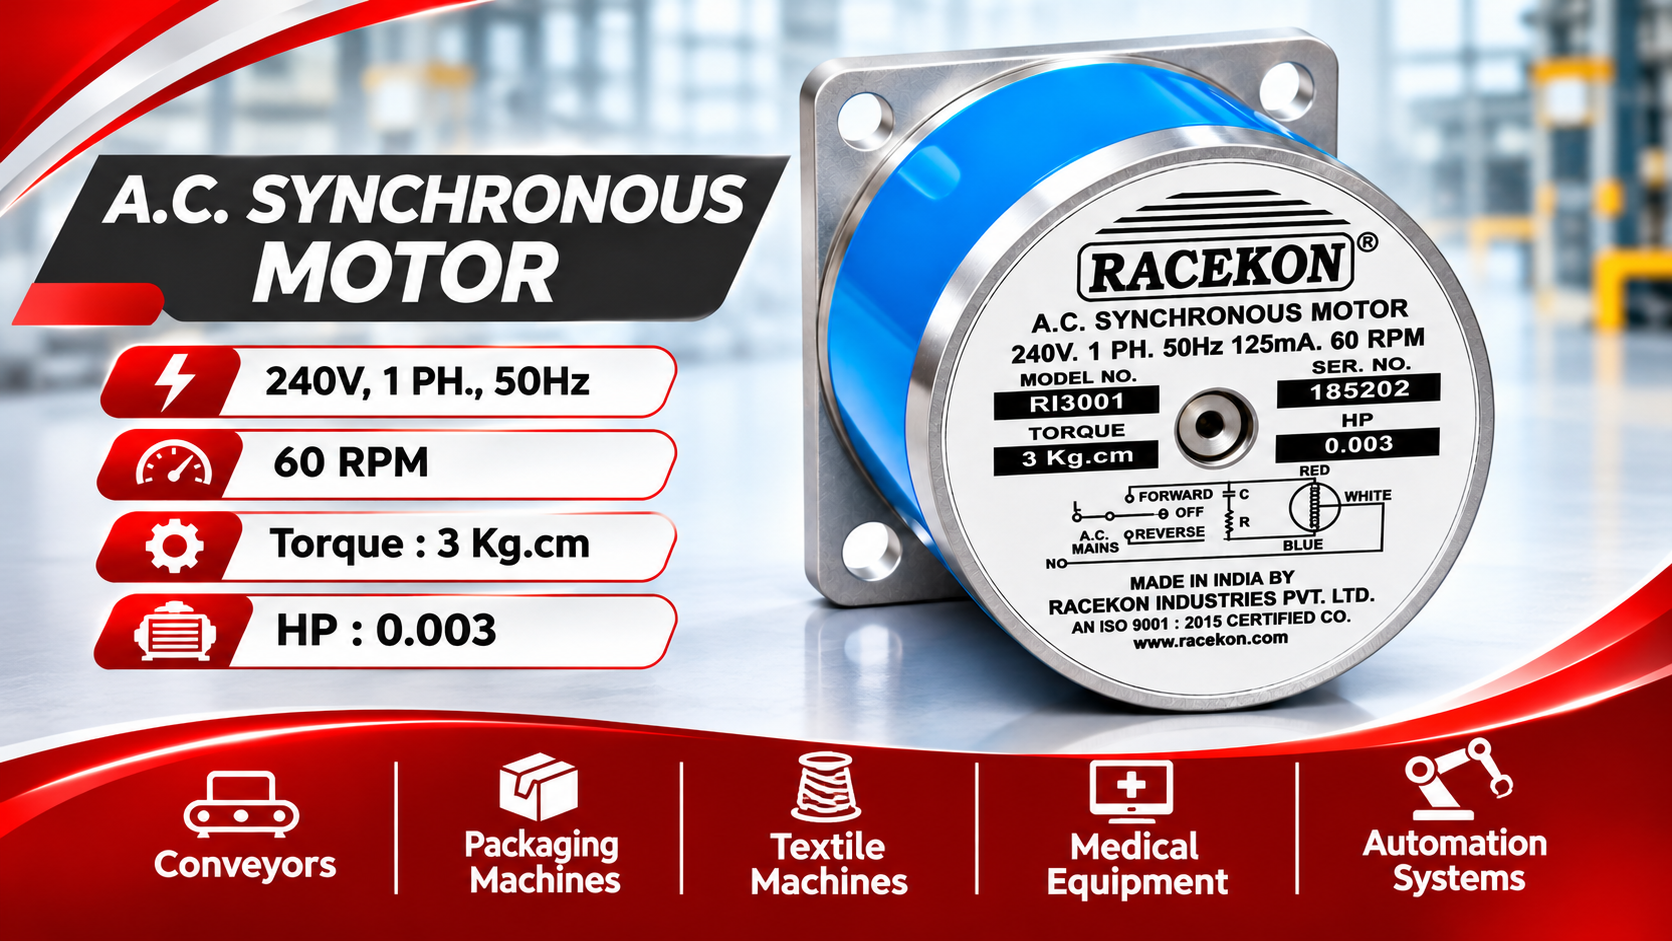
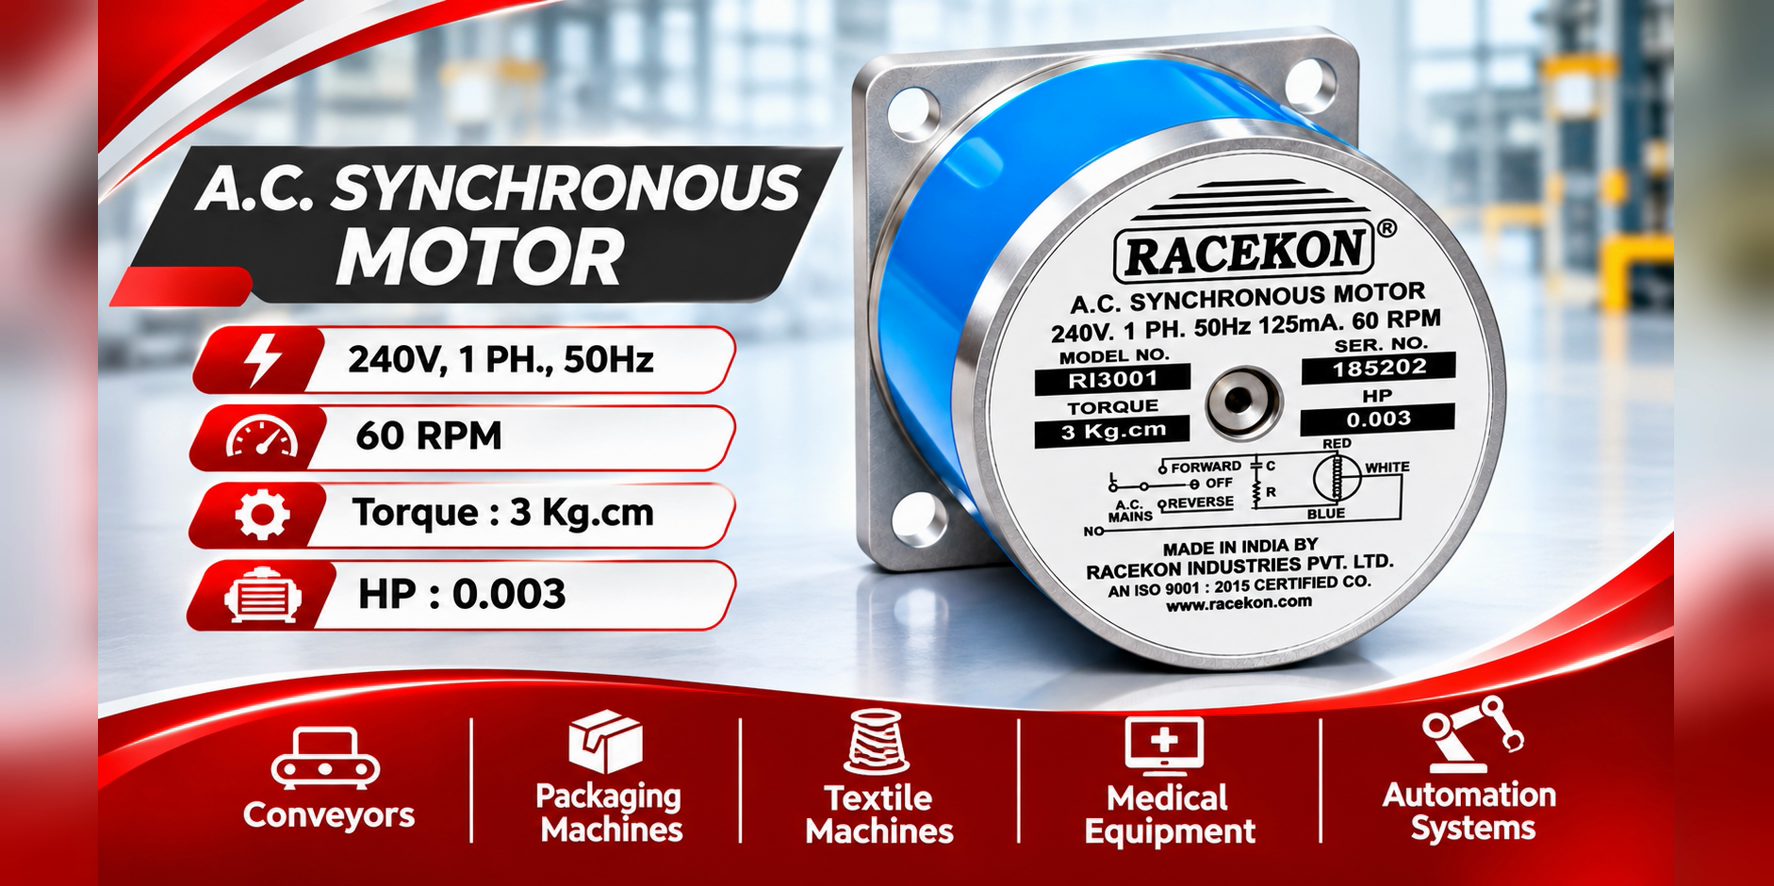
resize images

diff --git a/index.htm b/index.htm
@@ -50,6 +50,12 @@
     content="https://www.racekon.com/wp-content/uploads/2018/07/cropped-IMG_20180725_125405-2-270x270.jpg">
   <script>(function () { this._N2 = this._N2 || { _r: [], _d: [], r: function () { this._r.push(arguments) }, d: function () { this._d.push(arguments) } } }).call(window); !function (a) { a.indexOf("Safari") > 0 && -1 === a.indexOf("Chrome") && document.documentElement.style.setProperty("--ss-safari-fix-225962", "1px") }(navigator.userAgent);</script>
   <script>_N2.r('documentReady', function () { _N2.r(["documentReady", "smartslider-frontend", "SmartSliderWidgetArrowImage", "SmartSliderWidgetBulletTransition", "ss-simple"], function () { new _N2.SmartSliderSimple('n2-ss-2', { "admin": false, "callbacks": "", "background.video.mobile": 1, "loadingTime": 2000, "alias": { "id": 0, "smoothScroll": 0, "slideSwitch": 0, "scroll": 1 }, "align": "normal", "isDelayed": 0, "responsive": { "mediaQueries": { "all": false, "desktopportrait": ["(min-width: 1200px)"], "tabletportrait": ["(orientation: landscape) and (max-width: 1199px) and (min-width: 901px)", "(orientation: portrait) and (max-width: 1199px) and (min-width: 701px)"], "mobileportrait": ["(orientation: landscape) and (max-width: 900px)", "(orientation: portrait) and (max-width: 700px)"] }, "base": { "slideOuterWidth": 300, "slideOuterHeight": 150, "sliderWidth": 300, "sliderHeight": 150, "slideWidth": 300, "slideHeight": 150 }, "hideOn": { "desktopLandscape": false, "desktopPortrait": false, "tabletLandscape": false, "tabletPortrait": false, "mobileLandscape": false, "mobilePortrait": false }, "onResizeEnabled": true, "type": "auto", "sliderHeightBasedOn": "real", "focusUser": 1, "focusEdge": "auto", "breakpoints": [{ "device": "tabletPortrait", "type": "max-screen-width", "portraitWidth": 1199, "landscapeWidth": 1199 }, { "device": "mobilePortrait", "type": "max-screen-width", "portraitWidth": 700, "landscapeWidth": 900 }], "enabledDevices": { "desktopLandscape": 0, "desktopPortrait": 1, "tabletLandscape": 0, "tabletPortrait": 1, "mobileLandscape": 0, "mobilePortrait": 1 }, "sizes": { "desktopPortrait": { "width": 300, "height": 150, "max": 3000, "min": 300 }, "tabletPortrait": { "width": 300, "height": 150, "customHeight": false, "max": 1199, "min": 300 }, "mobilePortrait": { "width": 300, "height": 150, "customHeight": false, "max": 900, "min": 300 } }, "overflowHiddenPage": 0, "focus": { "offsetTop": "#wpadminbar", "offsetBottom": "" } }, "controls": { "mousewheel": 0, "touch": "horizontal", "keyboard": 1, "blockCarouselInteraction": 1 }, "playWhenVisible": 1, "playWhenVisibleAt": 0.5, "lazyLoad": 0, "lazyLoadNeighbor": 0, "blockrightclick": 0, "maintainSession": 0, "autoplay": { "enabled": 1, "start": 1, "duration": 2000, "autoplayLoop": 1, "allowReStart": 0, "pause": { "click": 0, "mouse": "0", "mediaStarted": 1 }, "resume": { "click": 0, "mouse": "0", "mediaEnded": 1, "slidechanged": 0 }, "interval": 1, "intervalModifier": "loop", "intervalSlide": "current" }, "perspective": 1500, "layerMode": { "playOnce": 0, "playFirstLayer": 1, "mode": "skippable", "inAnimation": "mainInEnd" }, "bgAnimations": 0, "mainanimation": { "type": "fade", "duration": 600, "delay": 0, "ease": "easeOutQuad", "shiftedBackgroundAnimation": 0 }, "carousel": 1, "initCallbacks": function () { new _N2.SmartSliderWidgetArrowImage(this); new _N2.SmartSliderWidgetBulletTransition(this, { "area": 12, "dotClasses": "n2-style-98b890a69860771f94d32019bd5202d1-dot ", "mode": "", "action": "click", "thumbnail": 1, "thumbnailWidth": 120, "thumbnailHeight": 81, "thumbnailStyle": "n2-style-4eb0cfe3f8b39eae2833f25a46a1ccc3-simple ", "thumbnailPosition": "top" }) } }) }) });</script>
+  <style>
+    #n2-ss-2 .n2-ss-slide-background-image img {
+      object-fit: contain !important;
+      object-position: center bottom !important;
+    }
+  </style>
 </head>
 
 <body itemtype='https://schema.org/WebPage' itemscope='itemscope'
